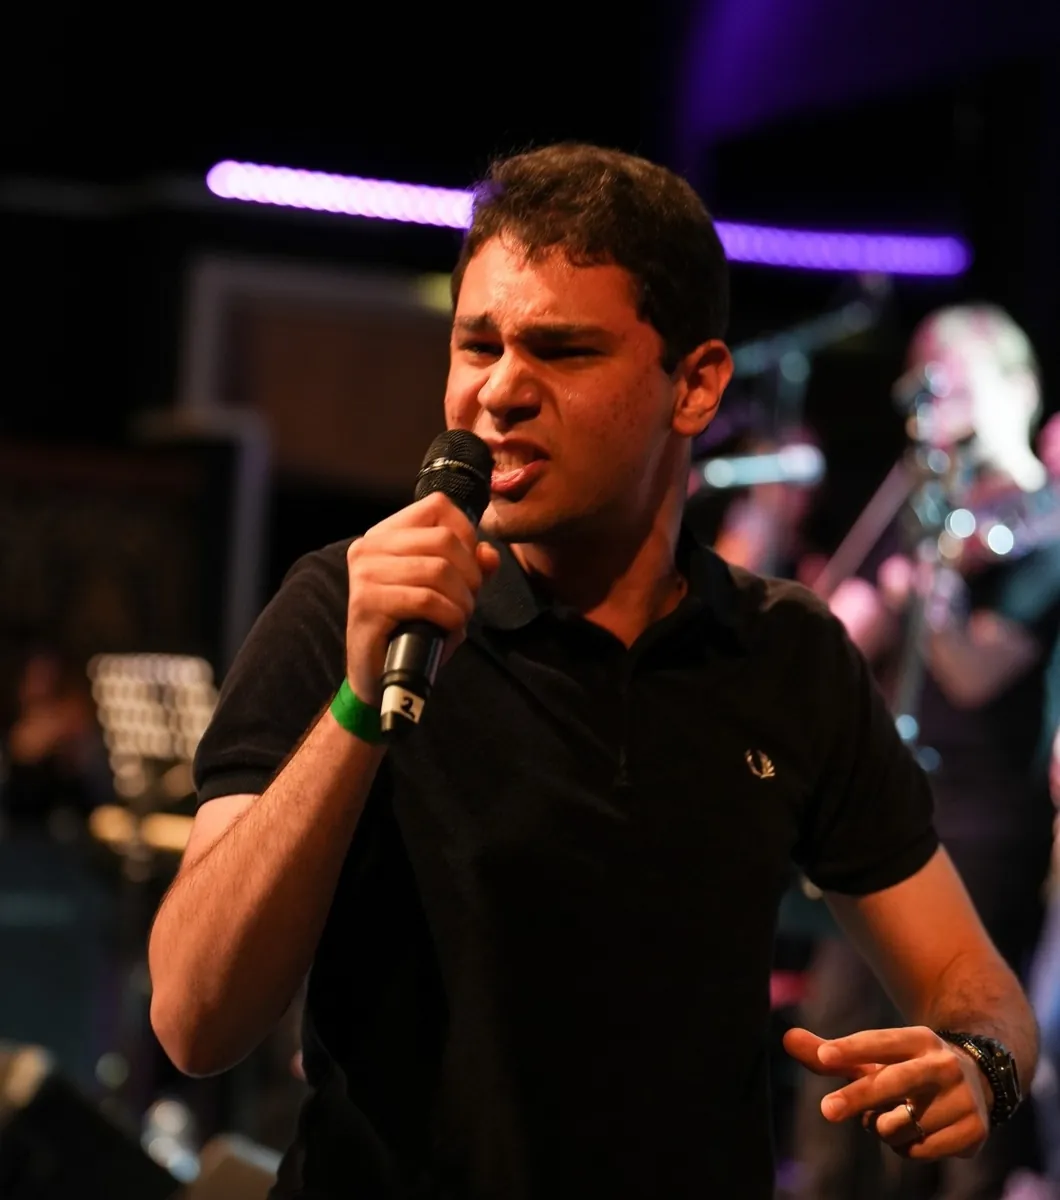
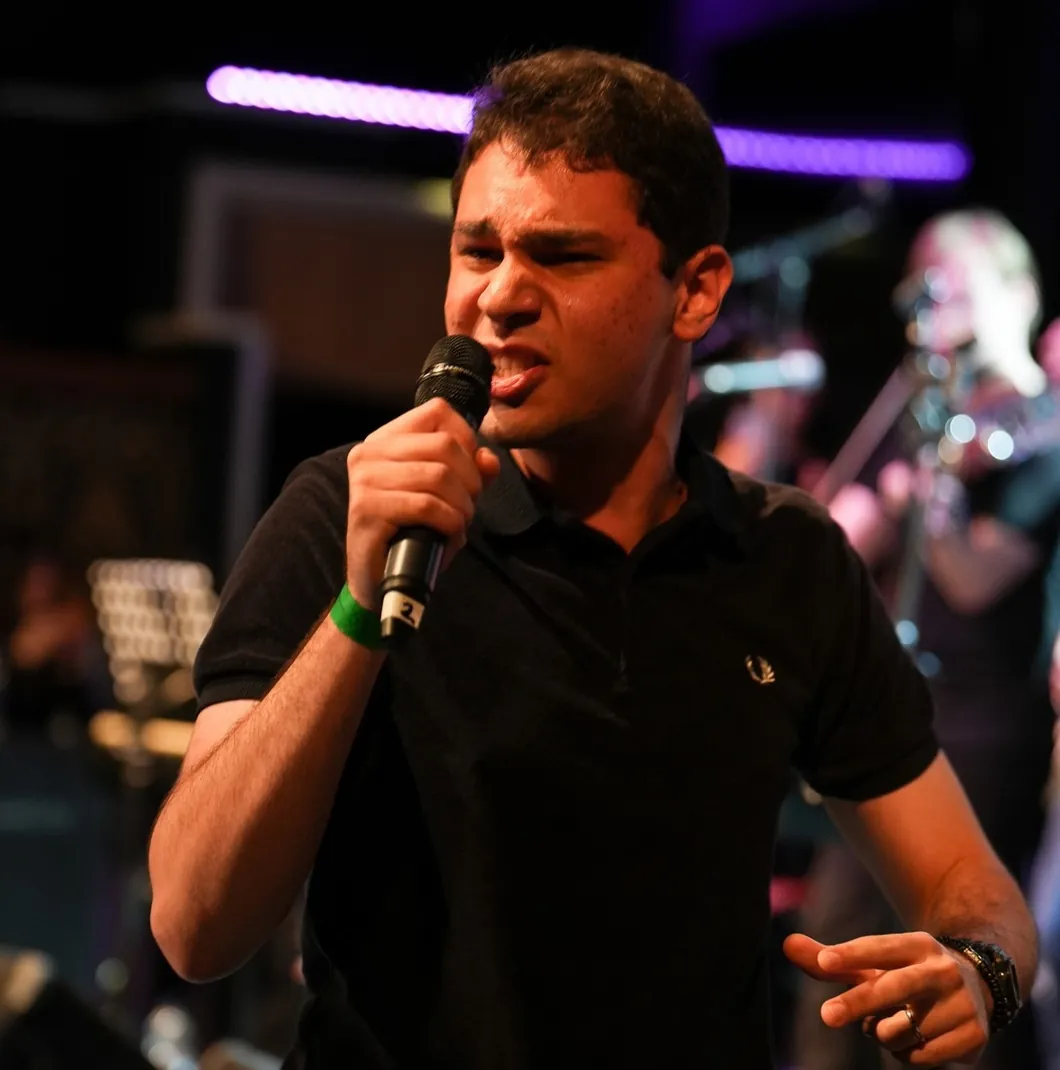
visual updates

diff --git a/music.html b/music.html
@@ -86,7 +86,7 @@
                                 <img decoding="async" src="img/music/tabernacle/final_speech_emre.webp" width="1200" height="800" alt="End of performance, Emre gives a thank you speech" fetchpriority="high" />
                             </div>
                             <div class="slide fade">
-                                <img decoding="async" src="img/music/tabernacle/performance_emre_front.webp" width="1060" height="1200" alt="Performance (Emre singing)" loading="lazy" />
+                                <img decoding="async" src="img/music/tabernacle/performance_emre_front.webp" width="1060" height="1047" alt="Performance (Emre singing)" loading="lazy" />
                             </div>
                             <div class="slide fade">
                                 <img decoding="async" src="img/music/tabernacle/final_celebrations.webp" width="1200" height="1200" alt="End of performance final celebrations" loading="lazy" />
